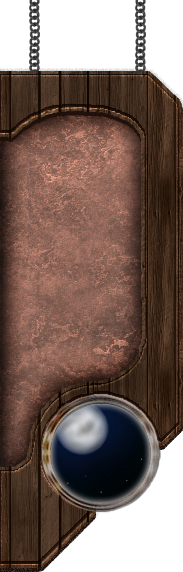
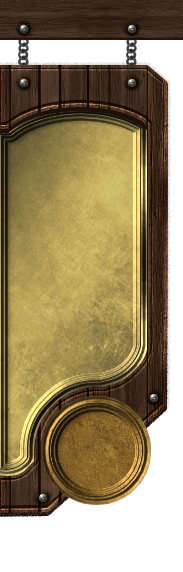
vast improvement to the sidebar

diff --git a/style.css b/style.css
@@ -5,13 +5,15 @@
 
 /* Make the mobile icons blink when needed */
 @keyframes blink {
-  100%,
-  0% {
-    fill: #ffcaa8;
-  }
-  60% {
-    fill: #fff;
-  }
+
+    100%,
+    0% {
+        fill: #ffcaa8;
+    }
+
+    60% {
+        fill: #ff0000;
+    }
 }
 
 body {
@@ -30,7 +32,12 @@ footer a {
     color: #83b6e6;
 }
 
-h1,h2,h3,h4,h5,h6 {
+h1,
+h2,
+h3,
+h4,
+h5,
+h6 {
     font-family: Caligula;
     color: white;
 }
@@ -38,7 +45,7 @@ h1,h2,h3,h4,h5,h6 {
 #title-bar {
     font-family: Caligula;
     font-size: medium;
-    background: url(images/title_bar.jpg);
+    background: url(images/bm-title-bar.jpg);
     position: fixed;
     top: 0;
     z-index: 99;
@@ -57,13 +64,13 @@ h1,h2,h3,h4,h5,h6 {
     padding-top: 140px;
     position: fixed;
     left: 0;
-    z-index: 98;
+    z-index: 100;
 }
 
 #menu-bar a {
-    font-size: 16pt;
+    font-size: 14pt;
     text-shadow: 2px 2px #000;
-    color: #ffcaa8;
+    color: #ffe284;
 }
 
 #menu-bar li {
@@ -79,7 +86,7 @@ h1,h2,h3,h4,h5,h6 {
 }
 
 #mobile-menu .messages g path {
-  animation: blink 1s infinite;
+    animation: blink 0.8s infinite;
 }
 
 #content-area {
@@ -88,7 +95,8 @@ h1,h2,h3,h4,h5,h6 {
     padding-bottom: 180px;
 }
 
-#content-area a, #content-area a:visited {
+#content-area a,
+#content-area a:visited {
     color: #83b6e6;
     text-decoration: none;
 }

diff --git a/index.html b/index.html
@@ -36,6 +36,7 @@
                 <li><a href="#">Travel</a></li>
                 <li><a href="#">Actions</a></li>
                 <li><a href="#">Orders</a></li>
+                <li><a href="#">Infiltrate</a></li>
                 <li><a href="#">Command</a></li>
             </ul>
         </div>
